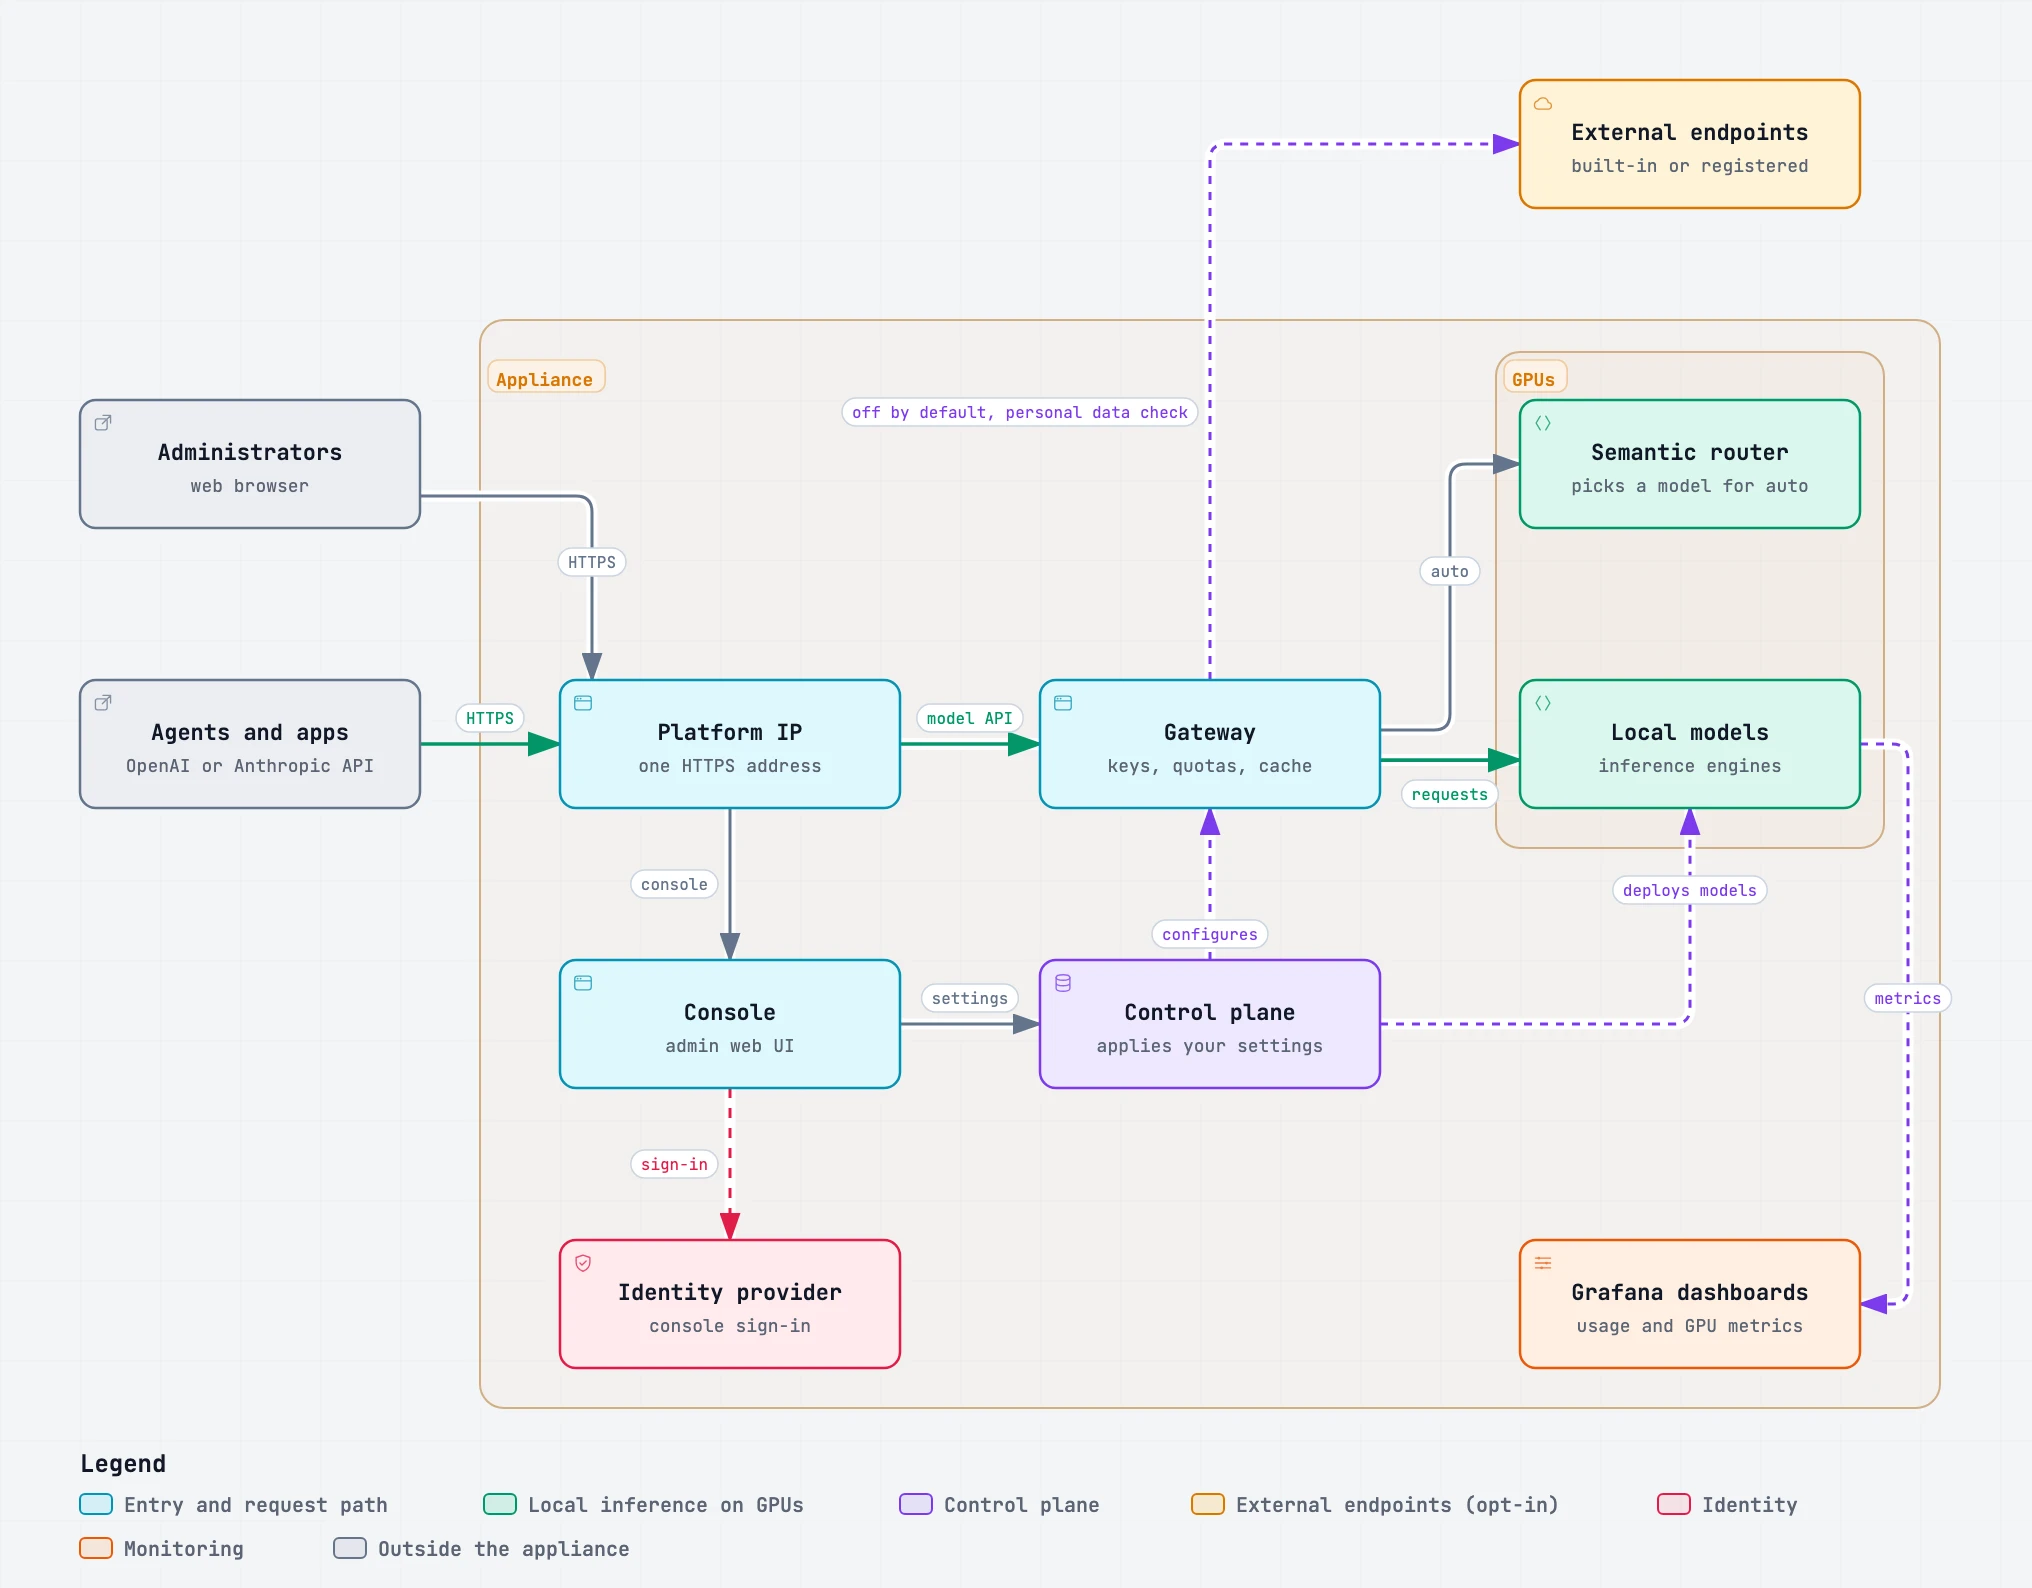
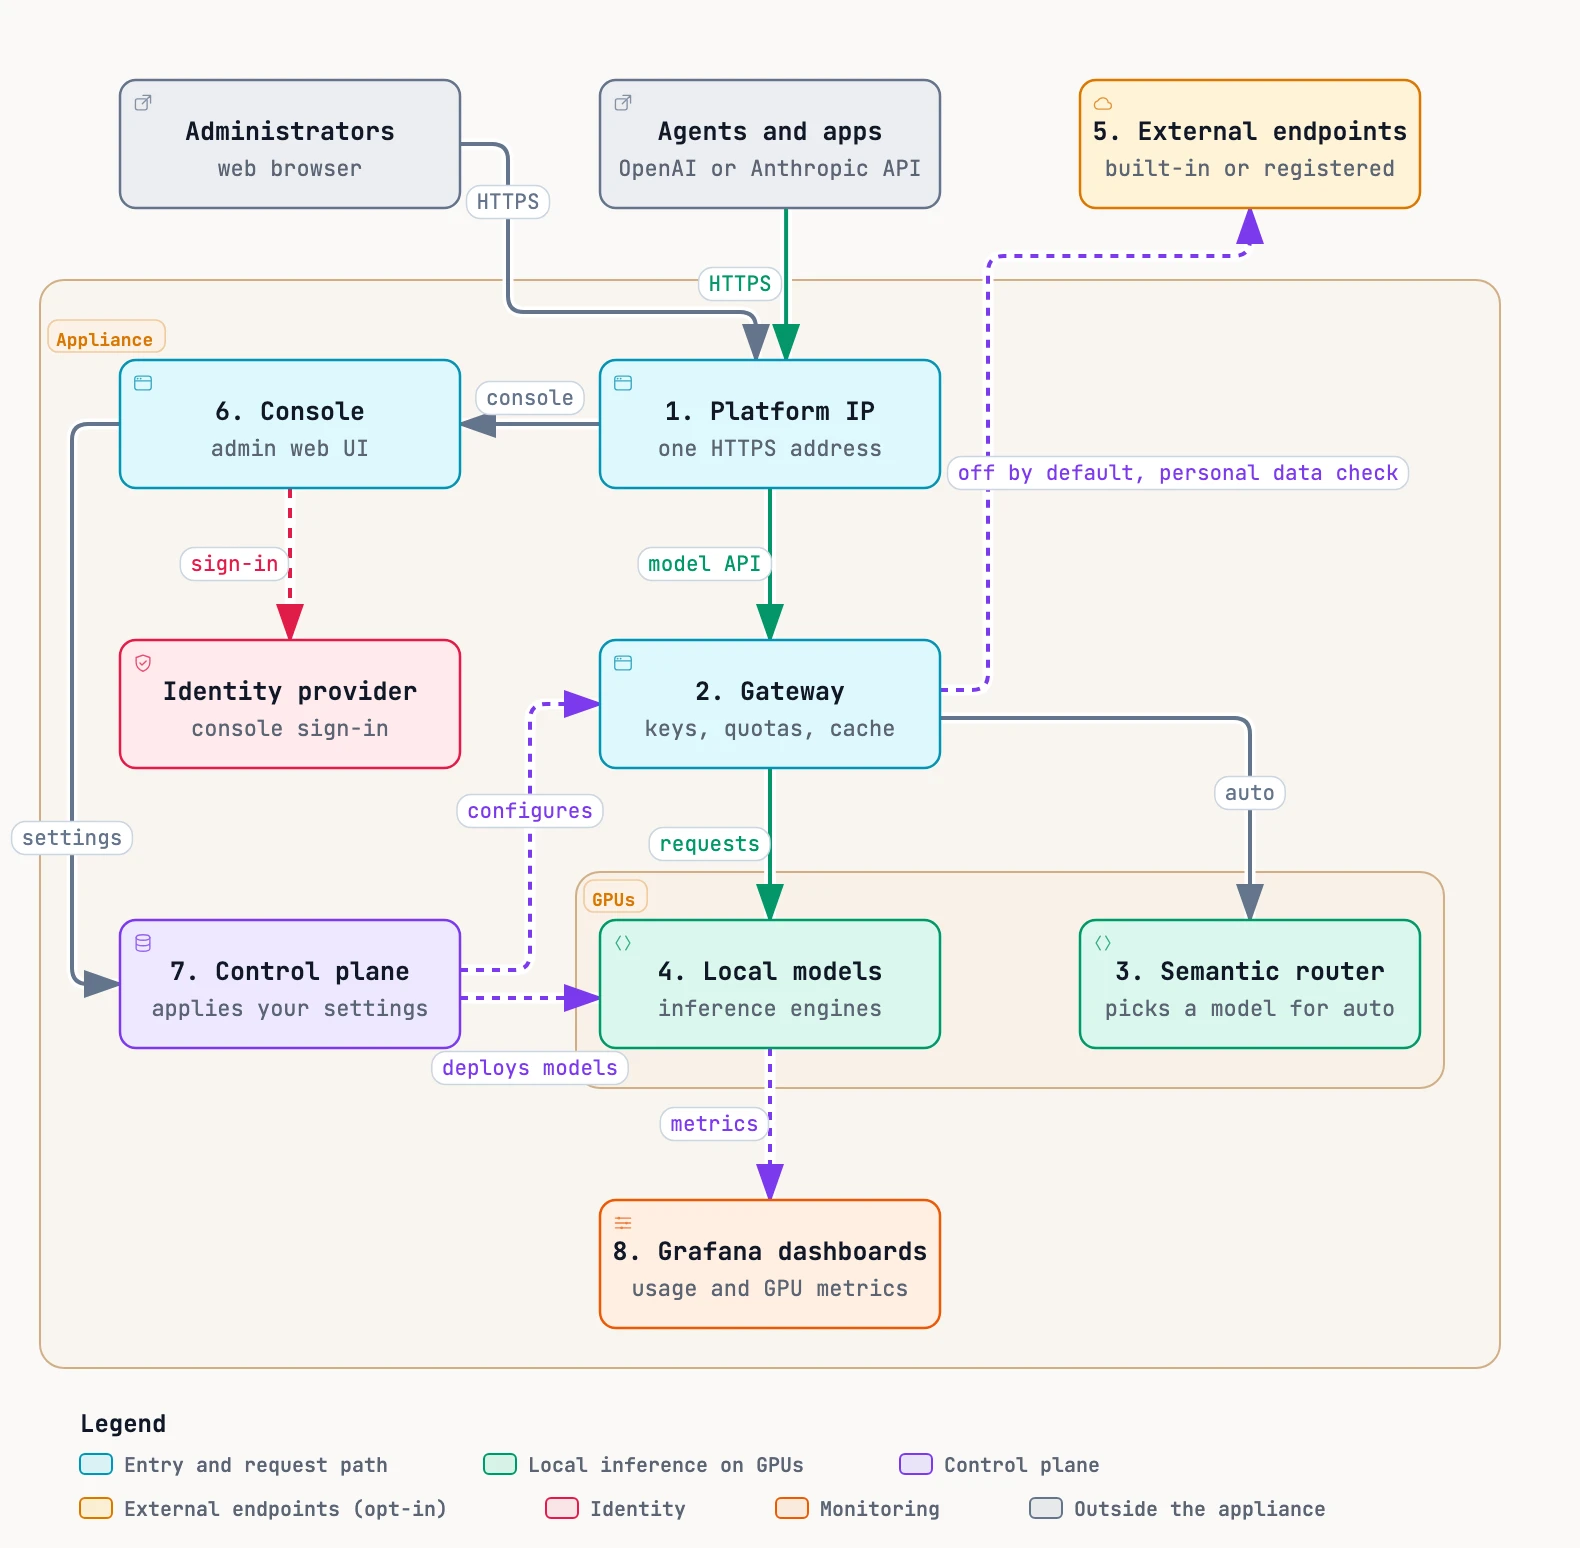
docs: number the DOC-3368 diagram, add a dark variant, and enlarge its text
The architecture diagram moves to a three-column layout that reads from top to bottom and left to right, with the administration side on the left and request destinations on the right.

Eight components carry callout numbers, and the walkthrough under the diagram is now a numbered list whose items match them.

The page shows a light or a dark image to match the reader's theme through the ThemedImage component.

Both images sit on the site's page color and use enlarged text and arrows so that they stay readable at the page column's width.

diff --git a/docs/products/paletteai-inference-launchpad/explanation/architecture.md b/docs/products/paletteai-inference-launchpad/explanation/architecture.md
@@ -10,6 +10,8 @@ tags: ["paletteai-inference-launchpad", "architecture", "explanation"]
 keywords: ["launchpad", "ai", "architecture", "kubernetes", "kairos", "helm", "data flow", "data residency"]
 ---
 
+import ThemedImage from "@theme/ThemedImage";
+
 This page explains how PaletteAI Inference Launchpad works, how its components interact, and what key decisions shaped
 the design. Use this page to build an understanding of the architecture before you deploy or operate PaletteAI Inference
 Launchpad.
@@ -17,23 +19,40 @@ Launchpad.
 ## Component Stack
 
 The following diagram shows the components that make up the appliance, the path a request takes through them, and the
-one path by which a request can leave the appliance.
+one path by which a request can leave the appliance. The numbers in the diagram match the list that follows it.
 
-![Architecture diagram of the appliance. Agents and apps outside the appliance send HTTPS requests to the Platform IP, which passes the model API to the gateway. The gateway sends requests to local models on the GPUs, sends auto requests to the semantic router on the same GPUs, and has a dashed path to external inference endpoints outside the appliance that is off by default and passes a personal data check. Administrators reach the console through the Platform IP. The console signs in through the identity provider and passes settings to the control plane, which configures the gateway and deploys models. Local models send metrics to the Grafana dashboards.](/assets/docs/images/architecture_inference-launchpad-overview.webp)
+<p>
+  <ThemedImage
+    className="markdown-image"
+    alt="Architecture diagram of the appliance with eight numbered areas, each described in the list that follows it. Agents and apps and administrators sit outside the appliance and reach it over HTTPS. Inside the appliance, the semantic router and local models run on the GPUs. External endpoints sit outside the appliance, behind a dashed path that is off by default."
+    sources={{
+      light: "/assets/docs/images/architecture_inference-launchpad-overview.webp",
+      dark: "/assets/docs/images/architecture_inference-launchpad-overview-dark.webp",
+    }}
+  />
+</p>
 
-Coding agents and applications send requests to the Platform IP Address, the single HTTPS address the appliance serves.
-Behind it, the gateway authenticates the calling client from its API token, enforces the client's quotas, and routes the
-request to a local model. A request that sends `auto` as the model goes to the semantic router, which runs on your GPUs
-and picks the model. When the response cache is on, the gateway answers a request identical to an earlier one without
-sending it to a model. For how routing works, refer to [Request Routing](#request-routing).
+1. Coding agents and applications send requests to the Platform IP Address, the single HTTPS address the appliance
+   serves. Administrators reach the console through the same address.
 
-A request reaches an external inference endpoint only when an operator allows egress, and by default a
-[personal data check](./semantic-router-guard.md#the-two-checks) scans the prompt before it leaves. Refer to
-[Data Residency and Isolation](#data-residency-and-isolation).
+2. The gateway authenticates the calling client from its API token, enforces the client's quotas, and routes the
+   request. When the response cache is on, the gateway answers a request identical to an earlier one without sending it
+   to a model. For how routing works, refer to [Request Routing](#request-routing).
 
-Administrators work in the console, which signs them in through the appliance's identity provider. The settings they
-save pass to the control plane, which configures the gateway and deploys models to the GPUs. The Grafana dashboards
-collect usage and GPU metrics.
+3. A request that sends `auto` as the model goes to the semantic router, which runs on your GPUs and picks the model.
+
+4. The chosen local model answers the request on the appliance's GPUs.
+
+5. A request reaches an external inference endpoint only when an operator allows egress, and by default a
+   [personal data check](./semantic-router-guard.md#the-two-checks) scans the prompt before it leaves. Refer to
+   [Data Residency and Isolation](#data-residency-and-isolation).
+
+6. Administrators work in the console, which signs them in through the appliance's identity provider.
+
+7. The settings administrators save in the console pass to the control plane, which configures the gateway and deploys
+   models to the GPUs.
+
+8. The Grafana dashboards collect usage and GPU metrics.
 
 Local UI does not appear in the diagram. The node's operating system serves it outside the Platform IP, so it stays
 reachable when platform services are unavailable. Refer to [Network Topology](#network-topology).
